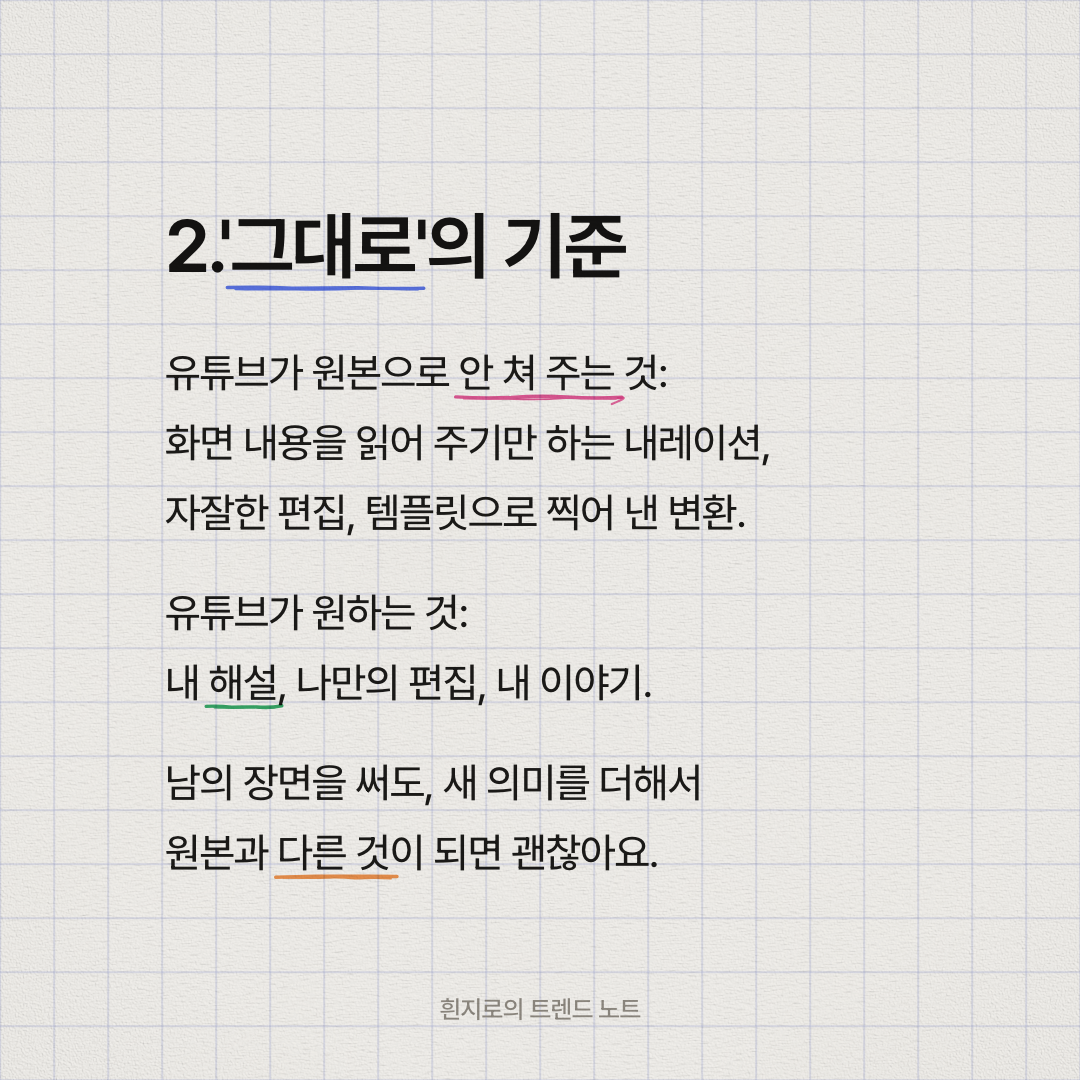
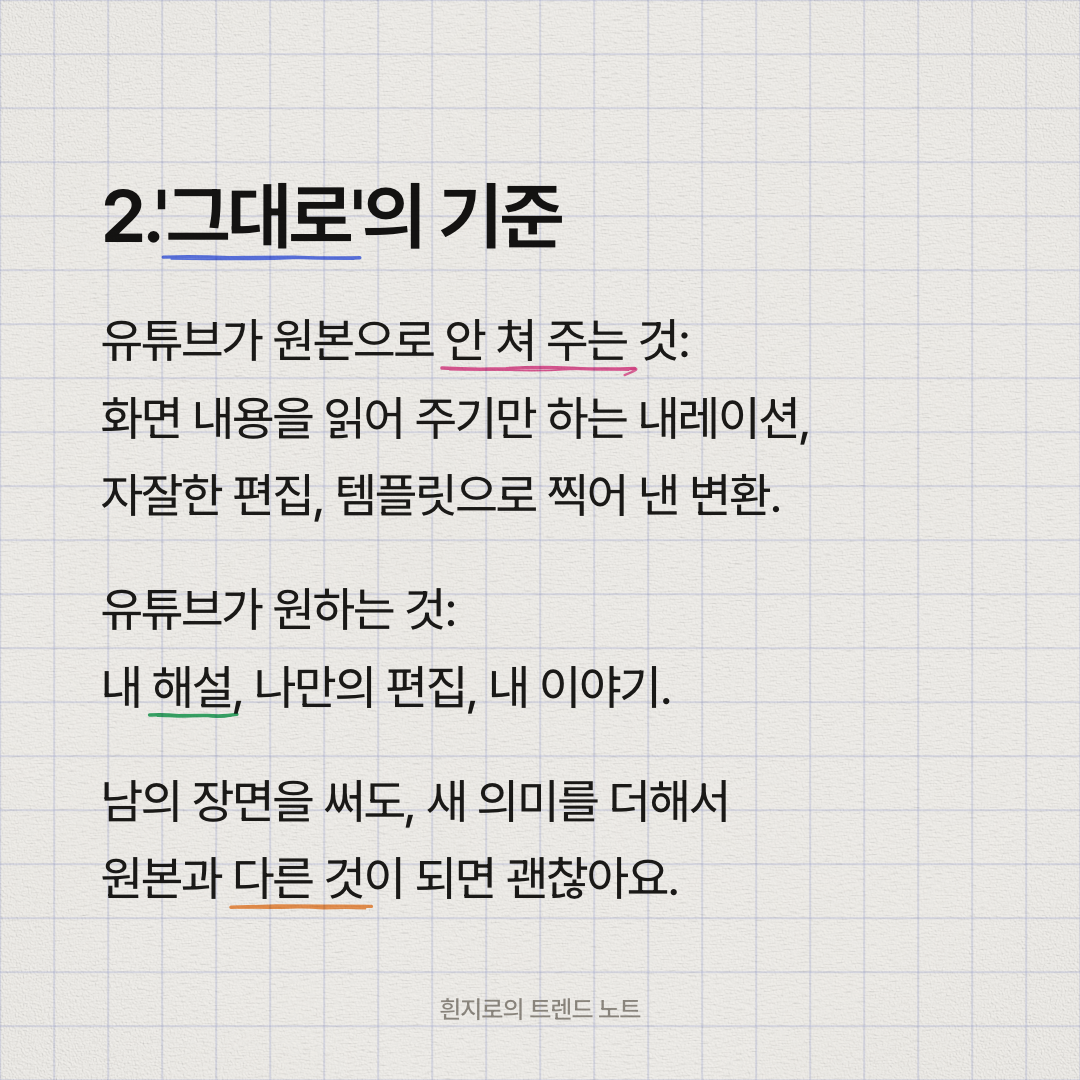
카드뉴스 11/11~11/15 본문 48px로 통일 (11/10과 동일), 다운로드 폴더 정리

diff --git a/cardnews/dashboard/data.js b/cardnews/dashboard/data.js
@@ -1,4 +1,4 @@
-// build.mjs가 만든 파일 — 직접 고치지 않는다 (2026-11-09T06:40:24.412Z)
+// build.mjs가 만든 파일 — 직접 고치지 않는다 (2026-11-09T06:46:41.373Z)
 window.CARDNEWS = [
  {
   "variants": {},

diff --git a/cardnews/wiki/2-디자인-규칙.md b/cardnews/wiki/2-디자인-규칙.md
@@ -37,7 +37,8 @@
 
 ## 2-6. (삭제) 에디토리얼·노트 명조 — 2026-11-09 시영 요청으로 덱·템플릿 삭제. 노트는 고딕만 쓴다.
 
-## 2-7. 글자 크기 (2026-11-09 시영 "전체적으로 더 크게, 내용은 줄이지 말 것") — 11/10 덱부터
-- 덱에 `big: true` + 항목 장 `size: 41`(본문), 제목 74px, 표지 제목 +10px, 바닥줄 25px. 마인드맵 이름 46px 그대로(시영이 좋다고 한 기준).
-- 본문은 줄이 꺾이면 안 된다 → 내용은 줄이지 말고 줄바꿈 위치만 옮긴다. 검사: 렌더 후 각 줄 nowrap 폭 ≤ 상자 폭.
-- 11/09 덱은 예전 크기 그대로(이미 게시됨).
+## 2-7. 글자 크기 — ★최종 고정 48px (2026-11-09 시영 "48로 고정")
+- 덱에 `big: true` + 항목 장 `size: 48`(본문, 마인드맵과 같은 크기) + `blockW: 960`(상자 폭 넓힘, 안 그러면 48px에서 꺾임) + `lh: 1.62`(줄 간격 살짝 좁힘) + `gapHead: 38`(제목-본문 간격). 제목 74px, 표지 제목 +10px, 바닥줄 25px, 마인드맵 이름 46px.
+- `inkW`는 48px 기준으로 PNG를 렌더한 뒤 다시 잰 값을 써야 한다(글자 커지면 가장 긴 줄도 바뀜).
+- 내용은 줄이지 않는다 — 줄바꿈 위치만 조정. 검사: 렌더 후 각 줄 nowrap 폭 ≤ 960px 상자.
+- 11/09 덱(이미 게시됨)만 예전 크기(기본값) 그대로. 11/10~11/15는 전부 48px 적용 완료.

diff --git a/cardnews/wiki/9-피드백-로그.md b/cardnews/wiki/9-피드백-로그.md
@@ -32,3 +32,4 @@
 29. 마지막 장: 좌우는 예전(50px)으로, 캡처는 위아래를 넉넉히. 1번 캡처 아이콘 누락 → 페이지 완전 로딩 후 2배 해상도로 다시 캡처(아이콘 보임). 2번은 시청자에게 안 보이는 크리에이터 버튼 줄은 빼고 탭부터. 만드는 스크립트 template/make_cta.py.
 30. 발행: 오늘 덱 즉시, 나머지 매일 오전 7시 예약(시간 고정). 흰지로의 오답노트 커뮤니티에 텍스트+이미지 모두. 앞으로 말 안 해도 이렇게.
 31. 글자 전체적으로 더 크게(오늘 것 빼고). 두 번째 장(마인드맵) 글자 크기가 기준. 내용은 줄이지 말 것 — 너무 크면 조금 작아도 됨 → 본문 41px(46px은 줄이 꺾임), 줄바꿈 위치만 조정.
+32. 48px 시험 → 안 깨짐, 48로 고정. 11/10~11/15 전부 48px 적용. 다운로드 전부 삭제, Aside에 6개 예약 핸드오프.
